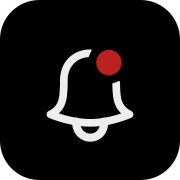
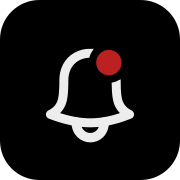
Take the bell up a weight, generate every copy of it, and redraw the empty state (#35)
The mark now runs at 12.1% of its own ink height rather than 10.4%: the clapper
1.85 to 2.15, and the stroke that thickens the bell's filled outlines 0.45 to
0.75, the same delta on both so they stay level with each other.

Four things the heavier line exposed, all fixed: the box had been running 0.27
short at the bottom since it was drawn and is refit to the ink, which moves
BellMark's dot to (0.7006, 0.1498) at 0.2835 and the site's disc with it; the
outline stroke joins miter rather than round, so the drawing's sharp corners
survive; the clapper's caps are trimmed 0.10 back along the curve so they stop
breaking through the skirt; and the site's badge, which has been sitting off the
bell's shoulder since #27, is back in its notch.

Every copy of the mark is generated from notifi-logo.svg by
Support/Icon/generate-marks.sh — BellLogo, BellTab, EmptyBell, the site's
bell.svg and favicon.svg, the touch icon, then the menu bar glyph and the app
icons. Keeping five hand-written copies in step is what caused the badge bug.
The two viewBoxes stay declared, because BellMark's dot and the site's disc are
fractions of them; the script prints those fractions and refuses to write a box
the ink no longer fits inside.

The empty inbox drops the sad face, which was drawn on older, thinner artwork,
for the mark itself as one dashed outline. The union of a filled path and a
stroked one is not something SVG can express, so the script traces it.
[…]

diff --git a/apps/app/Shared/Views/Components/Wordmark.swift b/apps/app/Shared/Views/Components/Wordmark.swift
@@ -54,11 +54,12 @@ struct Wordmark: View {
 /// template and a red circle is laid exactly on top. Geometry measured off the
 /// asset by flood-filling the disc:
 ///
-///     centre    (0.7028, 0.1667) of the frame
-///     diameter  0.273 of the frame
+///     centre    (0.7006, 0.1498) of the frame
+///     diameter  0.270 of the frame
 ///
-/// The overlay is a hair wider than the disc so no white rim survives. Both
-/// numbers are read off BellLogo — redraw that and they have to be re-measured.
+/// The overlay is a hair wider than the disc so no white rim survives. All three
+/// are fractions of BellLogo's viewBox — redraw that, or reframe it, and they
+/// have to be re-measured.
 struct BellMark: View {
     var size: CGFloat = 21
     var hasUnread: Bool = false
@@ -66,11 +67,11 @@ struct BellMark: View {
     /// Bumped on every new-message post; drives the shake.
     @State private var shake = 0
 
-    private static let badgeCentre = CGPoint(x: 0.7028, y: 0.1667)
+    private static let badgeCentre = CGPoint(x: 0.7006, y: 0.1498)
     /// Sized to the badge drawn in BellLogo, plus a hair so the red fully covers
     /// it. Shrinking the badge in the artwork means shrinking this to match, or
     /// the unread dot overhangs the gap the bell cuts around it.
-    private static let badgeDiameter: CGFloat = 0.286
+    private static let badgeDiameter: CGFloat = 0.2835
 
     var body: some View {
         Image("BellLogo")

diff --git a/apps/api/public/index.html b/apps/api/public/index.html
@@ -172,13 +172,16 @@ section{padding:clamp(48px,7vw,86px) 0}
 .bell{position:relative;flex:0 0 auto;width:var(--bell,24px);height:var(--bell,24px)}
 .bell::before{
   content:"";position:absolute;inset:0;background:currentColor;
-  -webkit-mask:url(/bell.png) center/contain no-repeat;
-          mask:url(/bell.png) center/contain no-repeat;
+  -webkit-mask:url(/bell.svg) center/contain no-repeat;
+          mask:url(/bell.svg) center/contain no-repeat;
 }
-/* badge disc, measured off the artwork: centre 70.28%/16.67%, 34.5% across */
+/* Badge disc, as fractions of BellLogo's viewBox, which bell.svg is generated
+   from: the artwork puts the disc at 70.06%/14.98% and 27.03% across, and this
+   is drawn wider so it covers the notch the bell cuts around it. Reframing that
+   box in generate-marks.sh moves all three — they are not free numbers. */
 .bell::after{
-  content:"";position:absolute;left:70.28%;top:16.67%;
-  width:34.5%;height:34.5%;transform:translate(-50%,-50%);
+  content:"";position:absolute;left:70.06%;top:14.98%;
+  width:34.19%;height:34.19%;transform:translate(-50%,-50%);
   border-radius:50%;background:var(--brand);
 }
 .lockup{display:flex;align-items:center;gap:var(--lockgap,12px);color:var(--fg)}

diff --git a/apps/api/public/privacy.html b/apps/api/public/privacy.html
@@ -77,12 +77,16 @@ nav a:hover{color:var(--fg)}
 .bell{position:relative;flex:0 0 auto;width:var(--bell,24px);height:var(--bell,24px)}
 .bell::before{
   content:"";position:absolute;inset:0;background:currentColor;
-  -webkit-mask:url(/bell.png) center/contain no-repeat;
-          mask:url(/bell.png) center/contain no-repeat;
+  -webkit-mask:url(/bell.svg) center/contain no-repeat;
+          mask:url(/bell.svg) center/contain no-repeat;
 }
+/* Badge disc, as fractions of BellLogo's viewBox, which bell.svg is generated
+   from: the artwork puts the disc at 70.06%/14.98% and 27.03% across, and this
+   is drawn wider so it covers the notch the bell cuts around it. Reframing that
+   box in generate-marks.sh moves all three — they are not free numbers. */
 .bell::after{
-  content:"";position:absolute;left:70.28%;top:16.67%;
-  width:34.5%;height:34.5%;transform:translate(-50%,-50%);
+  content:"";position:absolute;left:70.06%;top:14.98%;
+  width:34.19%;height:34.19%;transform:translate(-50%,-50%);
   border-radius:50%;background:var(--brand);
 }
 .lockup{display:flex;align-items:center;gap:var(--lockgap,12px);color:var(--fg)}

diff --git a/apps/app/Shared/Views/InboxRootView.swift b/apps/app/Shared/Views/InboxRootView.swift
@@ -15,9 +15,10 @@ struct InboxRootView: View {
                     }
             }
             // The app's own bell rather than a generic inbox tray — this tab is
-            // notifi itself, so it gets the logo.
-            // `BellLogo` is a 360px raster, and a tab item uses its asset at
-            // native size — hence a tab-sized copy of the same artwork.
+            // notifi itself, so it gets the logo. A tab item draws its asset at
+            // the asset's own framing, and BellLogo is framed tight to the ink,
+            // which would sit heavier here than the akar icons beside it — hence
+            // BellTab, the same drawing in a looser box.
             .tabItem { Label("Notifications", image: "BellTab") }
             .tag(AppTab.inbox)
 

diff --git a/apps/app/Shared/Views/EmptyStateView.swift b/apps/app/Shared/Views/EmptyStateView.swift
@@ -50,9 +50,14 @@ struct EmptyStateView: View {
 
     var body: some View {
         VStack(spacing: 0) {
-            Image("SadBell")
+            // The mark as a dashed outline, as if it were pencilled in and not
+            // yet filled: nothing has arrived to draw it properly. The bell that
+            // used to sit here was a face drawn on older, thinner artwork.
+            Image("EmptyBell")
+                .renderingMode(.template)
                 .resizable()
                 .scaledToFit()
+                .foregroundStyle(Theme.muted)
                 .frame(width: 96)
                 .accessibilityHidden(true)
                 .padding(.bottom, 14)

diff --git a/CLAUDE.md b/CLAUDE.md
@@ -54,6 +54,23 @@ Run `cd apps/app && xcodegen generate` first if `project.yml` changed. Schemes a
 `notifi-iOS` and `notifi-macOS`. Verify on the Simulator, not a device over Wi-Fi:
 installs fail silently there and cannot be screenshotted.
 
+## The bell is drawn once, and every other copy is generated
+
+`apps/app/Support/Icon/notifi-logo.svg` is the mark. The tab icon, the wordmark
+bell, the empty state, the menu bar glyph, the app icons, the favicon, the touch
+icon and the bell the website masks are all produced from it by
+`Support/Icon/generate-marks.sh` — edit the master, run that, commit what it
+writes. Do not edit the generated SVGs; the header in each says so, and a change
+made there survives until the next person runs the script.
+
+Two viewBoxes are declared in that script rather than measured, because things
+outside it are positioned as fractions of them: `BellMark`'s unread dot in
+`Wordmark.swift`, and the badge disc in the site's CSS, which lives in both
+`index.html` and `privacy.html`. The script prints those fractions on every run
+and refuses to write a box the artwork no longer fits inside. If you reframe
+one, re-measure all of them — a release shipped with the site's disc sitting off
+the bell's shoulder because only the asset moved.
+
 ## Layout changes apply to every screen, not one
 
 The three tabs — Inbox, Keys, Settings — are built on different containers: the
